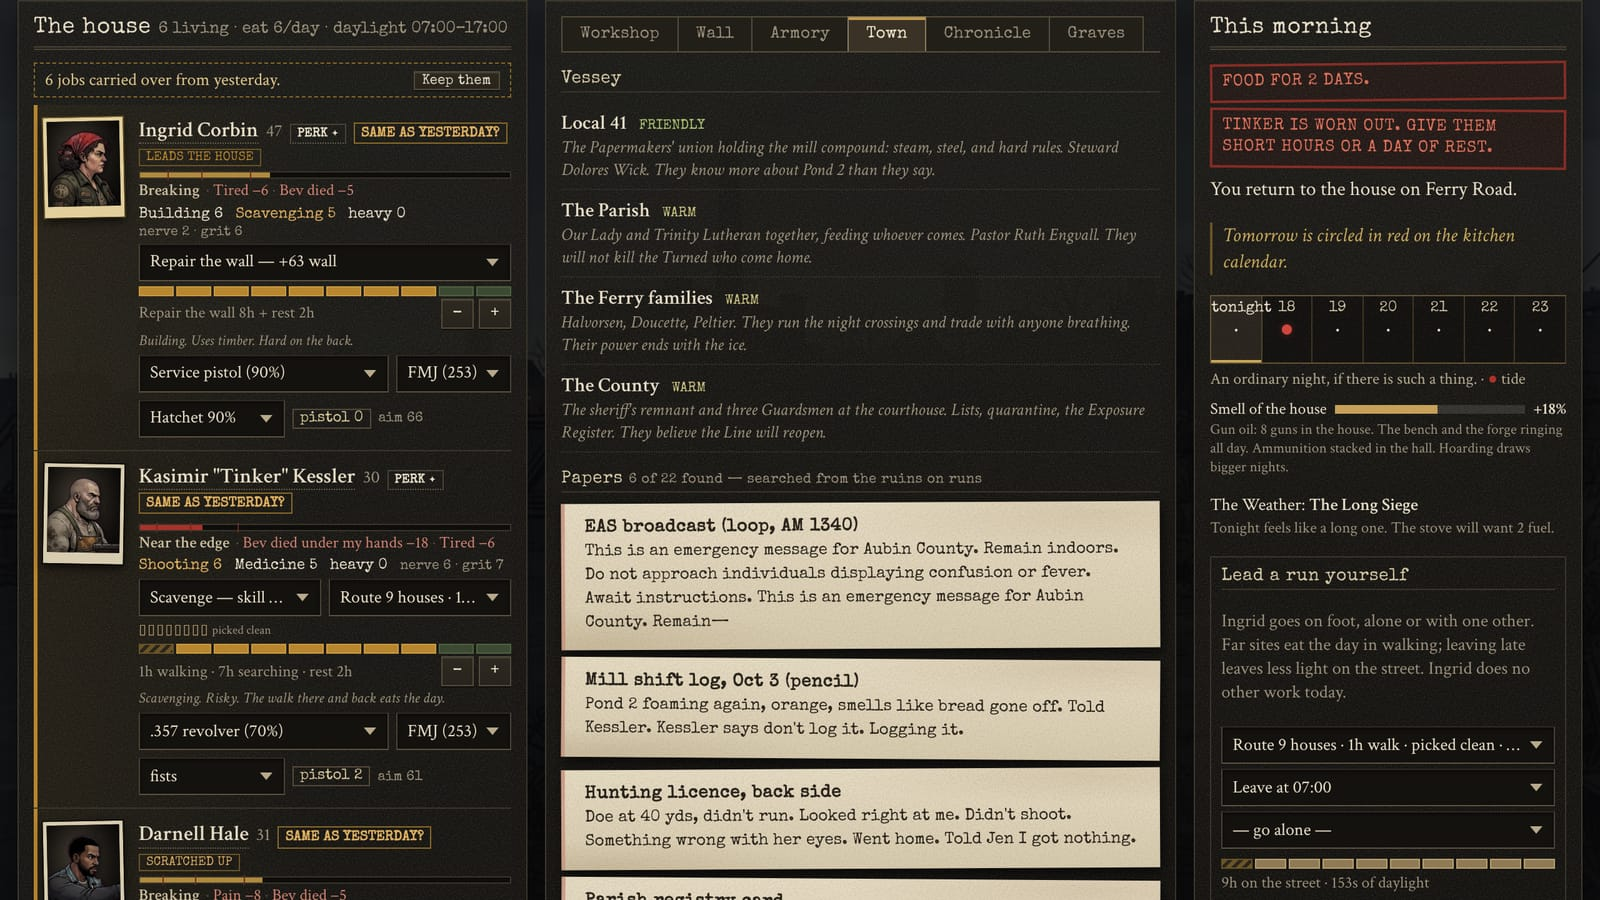
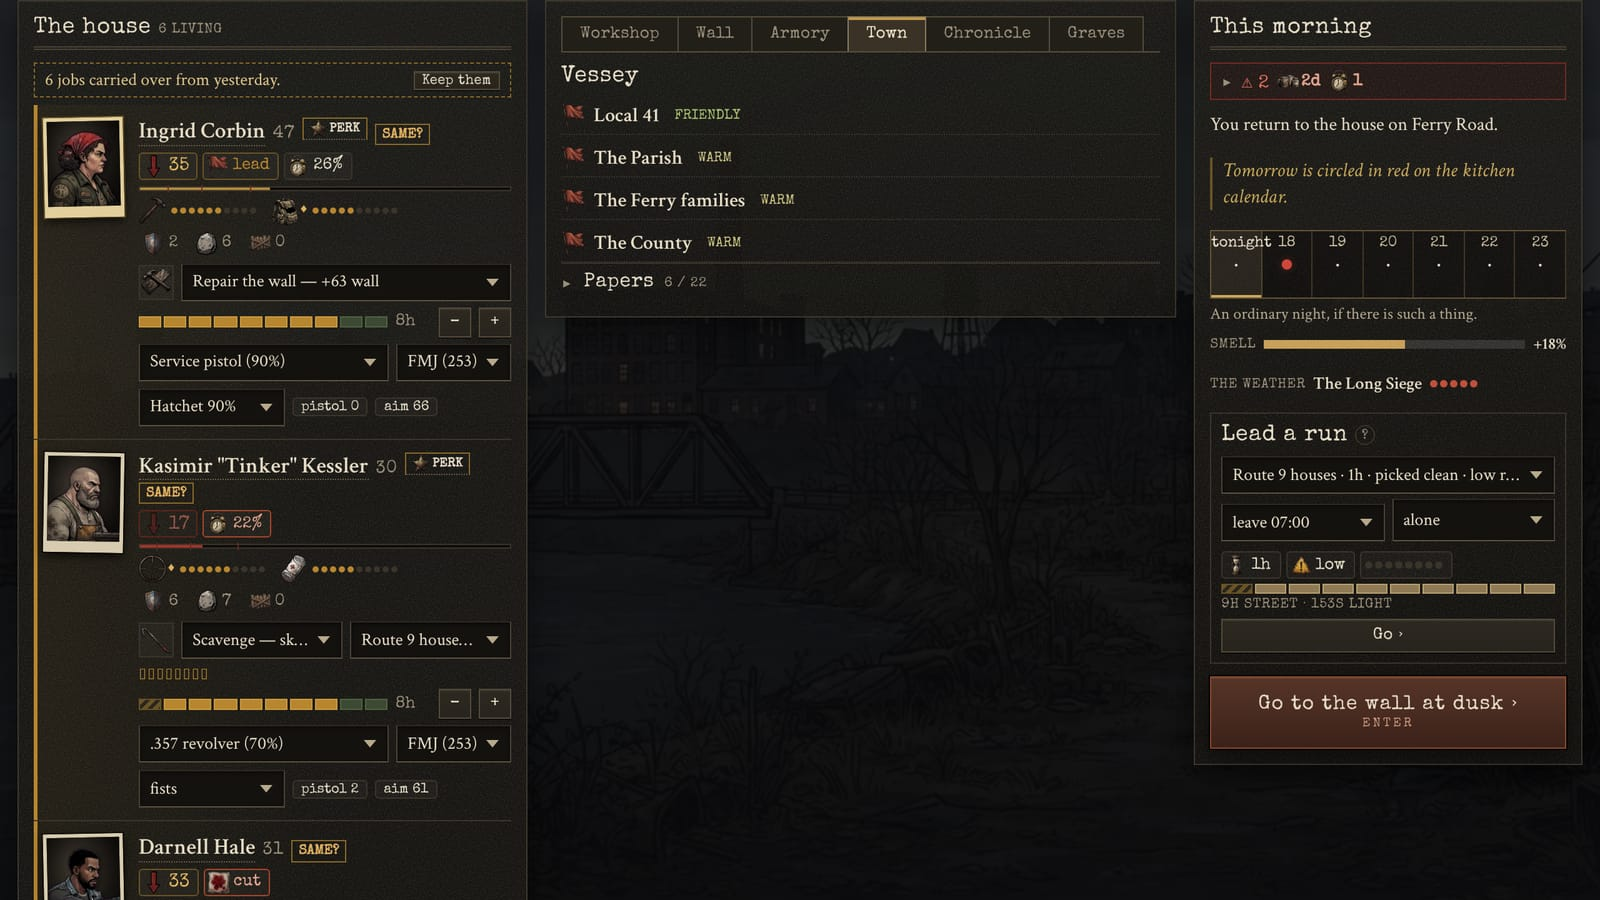
README: new screenshots (pictures-first UI), sally, perks, UI principles, gamepad/touch/phone, WebGL effects toggle
Claude-Session: https://claude.ai/code/session_01BpmvtS4bsapJPSRAWVjKg6

diff --git a/README.md b/README.md
@@ -18,6 +18,10 @@ Vessey is a dying paper-mill town on the St. Aubin River, in November. The Guard
 - **Storyteller.** Three personas (The Long Siege, The Quiet, The Coin), threat budgets and tides on a calendar, mercy after deaths, 51 incidents, radio threads with deadlines, four factions with standing, and the Crossing on Nov 28.
 - **Production.** Workbench, forge, cold frames, infirmary, still, generator and radio; ammunition by caliber and bullet type, 23 guns, 14 attachments in 6 slots, traps, armour, wall reinforcements, and named veteran guns.
 - **Endings and legacy.** Three endings (the ferry, the mill, Spring) and a score card; inscribe survivors in a Ledger that lasts across runs and unlock boons. Daily seed for everyone.
+- **The sally.** Drop over the wall for a few seconds to swing, re-set sprung traps and pick up rounds, then climb back before they close in.
+- **Perks.** At skill 4 and 7 a survivor is offered two perks (Tap-rack, Bead, Field medic, Ghost, The voice…); 32 in all.
+- **Pictures first.** Every ledger screen leads with icons, pips and big numbers; the sentences live in hover cards (long press on touch) and folds that remember how you left them ([research 12](docs/research/12-ui.md)).
+- **Anywhere.** Gamepad, touch buttons, and a sideways mode for phones held upright.
 - **Sound.** Layered procedural guns plus CC0 recordings, reloads voiced by the animation, ambience beds per scene, procedural music.
 
 ## Screenshots
@@ -78,7 +82,7 @@ All keys below are defaults; every one can be changed in **Settings › Controls
 ## Settings
 One ledger page, reachable from the title, the day screen (⚙) and the **pause menu** (`P`/`Esc` at night and on runs: Resume / Settings / Help / Quit to title; the game is frozen and takes no input while it is open). Everything is saved in this browser.
 - **Audio:** master, music, effects and ambience volumes; mute.
-- **Video:** animation Rigged / Classic, reduce screen shake, reduce gore, screen flashes and hitstop, hit markers, damage-zone markers, text size S/M/L, high-contrast text, fullscreen, frame-rate counter.
+- **Video:** animation Rigged / Classic, effects quality, WebGL effects (experimental: cel-shaded fire and smoke fields, heat haze, bloom; a frame-time governor steps it down), reduce screen shake, reduce gore, screen flashes and hitstop, hit markers, damage-zone markers, text size S/M/L, high-contrast text, fullscreen, frame-rate counter.
 - **Gameplay:** realism Standard / Hardcore, reload when empty, Focus hold / toggle, the threat ribbon, show the tutorial hints again.
 - **Controls:** every binding for the wall, runs and the day, with rebinding, conflict warnings and reset to defaults; the gamepad layout and whether a pad is connected.
 - **Data:** export the save (game, Ledger, settings, keys) to a file, import one, reset the Ledger, delete the saved game (both ask first).
@@ -113,7 +117,7 @@ Debug handles in the browser console: `__G` (the state), `__story` (`night(day)`
 
 ## Docs
 - [Design document](docs/DESIGN.md) (with the roadmap) · [Balance](docs/balance.md)
-- Research: [Last Stand & genre](docs/research/01-last-stand-and-genre.md) · [RimWorld & emergent story](docs/research/02-rimworld-emergent-story.md) · [Art style & lore](docs/research/03-art-style-and-lore.md) · [Depth & readability](docs/research/04-depth-and-readability.md) · [Combat depth](docs/research/05-combat-depth.md) · [Design principles & loops](docs/research/06-design-principles-and-loops.md) · [Gun audio](docs/research/07-gun-audio.md) · [Traps](docs/research/08-traps.md) · [Animation](docs/research/09-animation.md)
+- Research: [Last Stand & genre](docs/research/01-last-stand-and-genre.md) · [RimWorld & emergent story](docs/research/02-rimworld-emergent-story.md) · [Art style & lore](docs/research/03-art-style-and-lore.md) · [Depth & readability](docs/research/04-depth-and-readability.md) · [Combat depth](docs/research/05-combat-depth.md) · [Design principles & loops](docs/research/06-design-principles-and-loops.md) · [Gun audio](docs/research/07-gun-audio.md) · [Traps](docs/research/08-traps.md) · [Animation](docs/research/09-animation.md) · [VFX](docs/research/10-vfx.md) · [Shooting poses](docs/research/11-shooting-poses.md) · [UI](docs/research/12-ui.md)
 
 ## Credits
 Code, procedural audio and the story are original to this project; the art is AI-generated for it. Recorded sound effects are **CC0 / public domain** from OpenGameArt, listed with authors in [CREDITS.md](CREDITS.md) ([what CC0 means](https://creativecommons.org/publicdomain/zero/1.0/)). Fonts: Special Elite and Crimson Text (SIL Open Font License, via Google Fonts).
